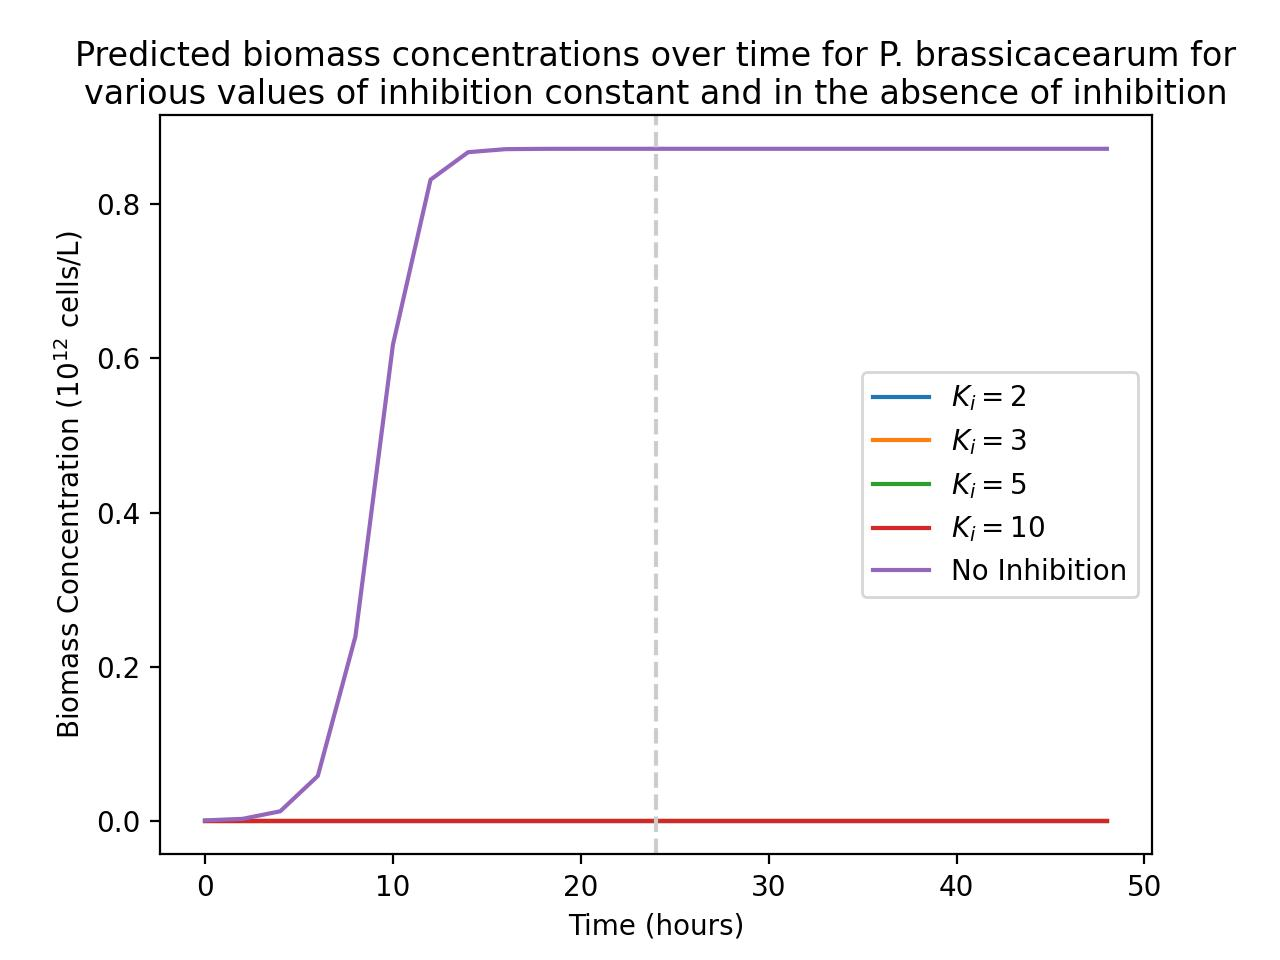
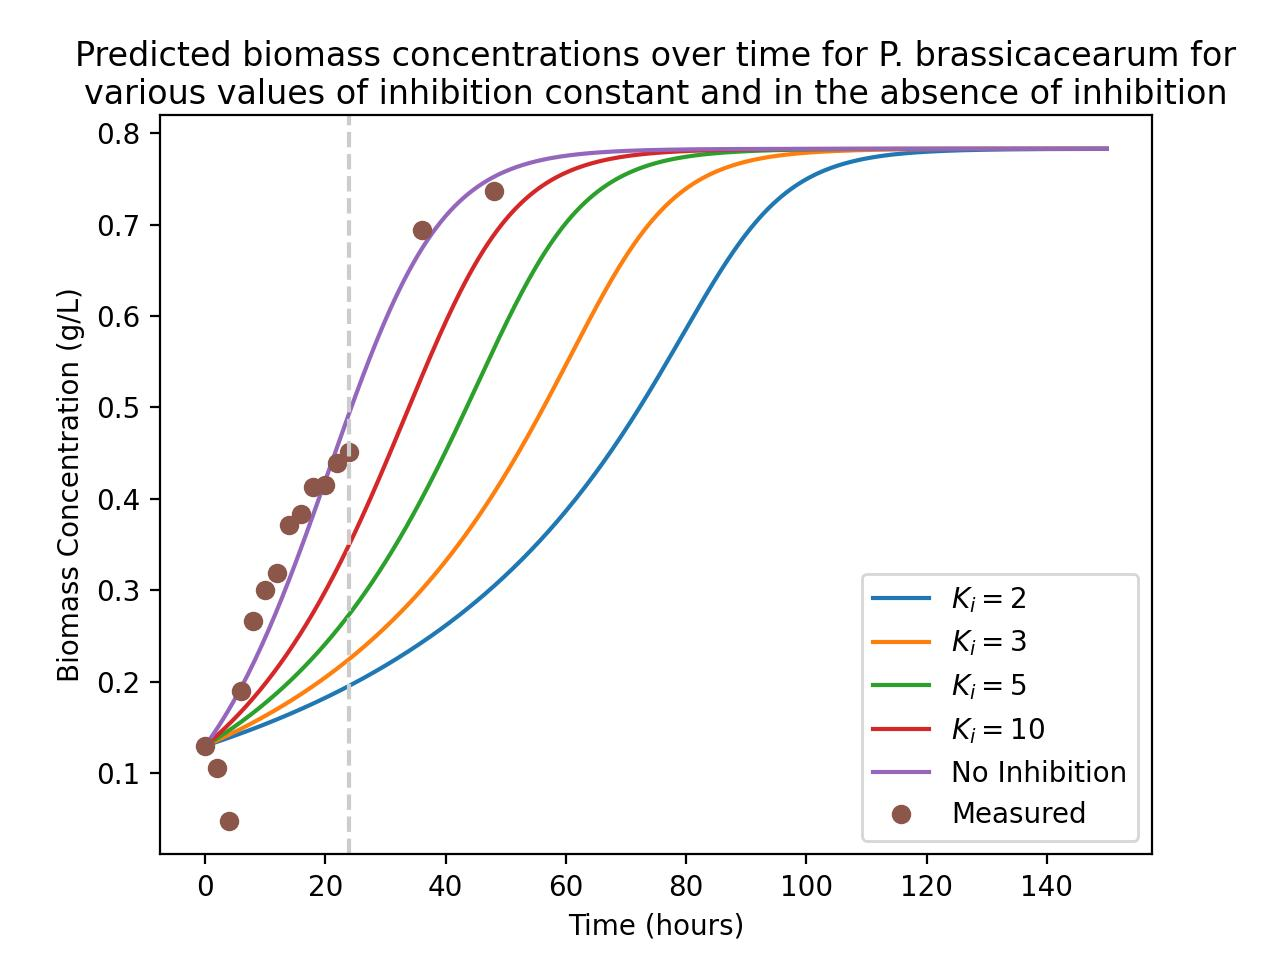
Add measured data plot to model 7

diff --git a/7_P_brassicacearum.py b/7_P_brassicacearum.py
@@ -24,36 +24,41 @@ from control import show_fig
 
 # Load measure data
 measured_data, header = load_csv( 'p_brassicacearum_wits_dataset_3')
+print('\nRaw measured data')
+print(measured_data)
 
 # Extract states
 states_m = measured_data[:, 1:3] # states measured
 state_names = header[1:3]
-print(state_names, states_m)
+print('\nRaw extracted states')
+print(state_names, '\n', states_m)
 
 # Convert optimal density to biomass concentration (g/L) and mg to g/L
-conversion_factor_OD = 0.4
+conversion_factor_OD = 0.24
 states_m[:, 0] = states_m[:, 0] * conversion_factor_OD
 states_m[:, 1] = states_m[:, 1] / 1000
 state_names[0] = 'Biomass Concentration (g/L)'
 state_names[1] = 'Cyanide Concentration (g/L)'
 
 # Extract times at which to evalutate the solution of the ODE system
-eval_times =  measured_data[:, 0]
-print(header[0], eval_times)
+times_m =  measured_data[:, 0]
+print('\nMeasurement times')
+print(header[0], times_m)
 
 # Set initial states
 innoculum_size_0 = 1.3e8
-conversion_factor_IS = 4 * 10e-13 # grams/cell
-cX_0 = innoculum_size_0 * conversion_factor_IS
+conversion_factor_IS =  10e-10 # 10e-8 # grams/cell
+cX_0 =  innoculum_size_0 * conversion_factor_IS
 states_m[0, 0] = cX_0
-print(state_names, states_m)
-initial_states = [ cX_0, 15, states_m[0, 1] ] # 15g/L substrate in Luria broth
-print('initial_states', initial_states)
+print('\nProcessed measured states')
+print(state_names, '\n', states_m)
+print('\nInitial measured states')
+initial_states = [ cX_0, 20, states_m[0, 1] ] # 20g/L substrate in Luria broth + 5 g glycine
+print(initial_states)
 
 #######################################################################################
 
 # Build model and define regression function
-
 
 # Define model for parameter fitting 
 def monod(f,t, umax, Ks, Yps, Yxs):
@@ -93,7 +98,7 @@ def regress( params ):
     Yxs = params['Yxs'].value
 
     # Model prediction
-    c = odeint(monod, initial_states, eval_times, args=(umax, Ks, Yps, Yxs))
+    c = odeint(monod, initial_states, times_m, args=(umax, Ks, Yps, Yxs))
     cX = c[:, 0]
     # cS = c[:, 1]
     cP = c[:, 2]
@@ -126,15 +131,15 @@ Yps = result.params['Yps'].value
 # Plot inhibition curves
 
 xvline = 24
-times = sorted( np.concatenate( ([xvline], np.linspace(1e-5, 180)) ) )
+times_p = sorted( np.concatenate( ([xvline], np.linspace(1e-5, 150, 400)) ) )
 Kis = [2, 3, 5, 10]
 args = (umax, Ks, Yps, Yxs)
 
-c_monod = odeint(monod, initial_states, eval_times, args=args)
+c_monod = odeint(monod, initial_states, times_p, args=args)
 zero_inhib = c_monod[:,0] # Biomass concentration
 
 plot_inhibition_curves(
-    eval_times,
+    times_p,
     initial_states,
     Kis,
     args,
@@ -142,5 +147,36 @@ plot_inhibition_curves(
     haldane_with_products,
     mic_name,
     xvline,
-    show_fig=show_fig
+    show_fig=show_fig,
+    measured_data=states_m[:,0],
+    measured_times=times_m
 )
+
+
+# Ad-hoc 
+
+times = np.linspace(times_m[0], times_m[-1], 400)
+
+c_monod = odeint(monod, initial_states, times, args=args)
+zero_inhib = c_monod[:,0] # Biomass concentration
+plt.figure()
+plt.plot(
+    times_m,
+    states_m[:,0], 
+    'o',
+    label='Measured',
+    ms=5
+)
+plt.plot(
+    times,
+    zero_inhib, 
+    '-',
+    label='Predicted',
+    # linewidth=1
+)
+plt.xlabel('Time (hours)')
+plt.ylabel( 'Biomass Concentration (g/L)' )
+title = 'Biomass concentrations over time for ' + mic_name + ': comparison of measured data with Monod model prediction'
+plt.title( title, loc='center', wrap=True )
+plt.legend()
+plt.show()

diff --git a/inhibition.py b/inhibition.py
@@ -53,7 +53,10 @@ def plot_inhibition_curves(
     mic_name, # name of micro-organism
     xvline,
     save_fig=True,
-    show_fig=True
+    show_fig=True,
+    cells=0, # toggle between mass and cell number concentration (cells = order of magnitude of cell number)
+    measured_data=None,
+    measured_times=None
     ):
 
 
@@ -68,9 +71,8 @@ def plot_inhibition_curves(
         cX = g[:,0] # Biomass concentration
         label='$K_i = $' + str(ki)
 
-        if inhib_func == haldane_with_products:
-            cX /= 10e12
-            ylabel = 'Biomass Concentration ($10^{12}$ cells/L)'
+        if cells:
+            ylabel = f'Biomass Concentration ($10^{cells}$ cells/L)'
 
         plt.plot(
             eval_times,
@@ -87,6 +89,16 @@ def plot_inhibition_curves(
         label='No Inhibition'
         )
 
+    # Plot measured data
+    if measured_data is not None:
+
+        plt.plot(
+            measured_times,
+            measured_data, 
+            'o',
+            label='Measured'
+        )
+        
     # Plot vertical line at 48 hours
     plt.axvline(x = xvline, linestyle = '--', color = '0.8')
 
